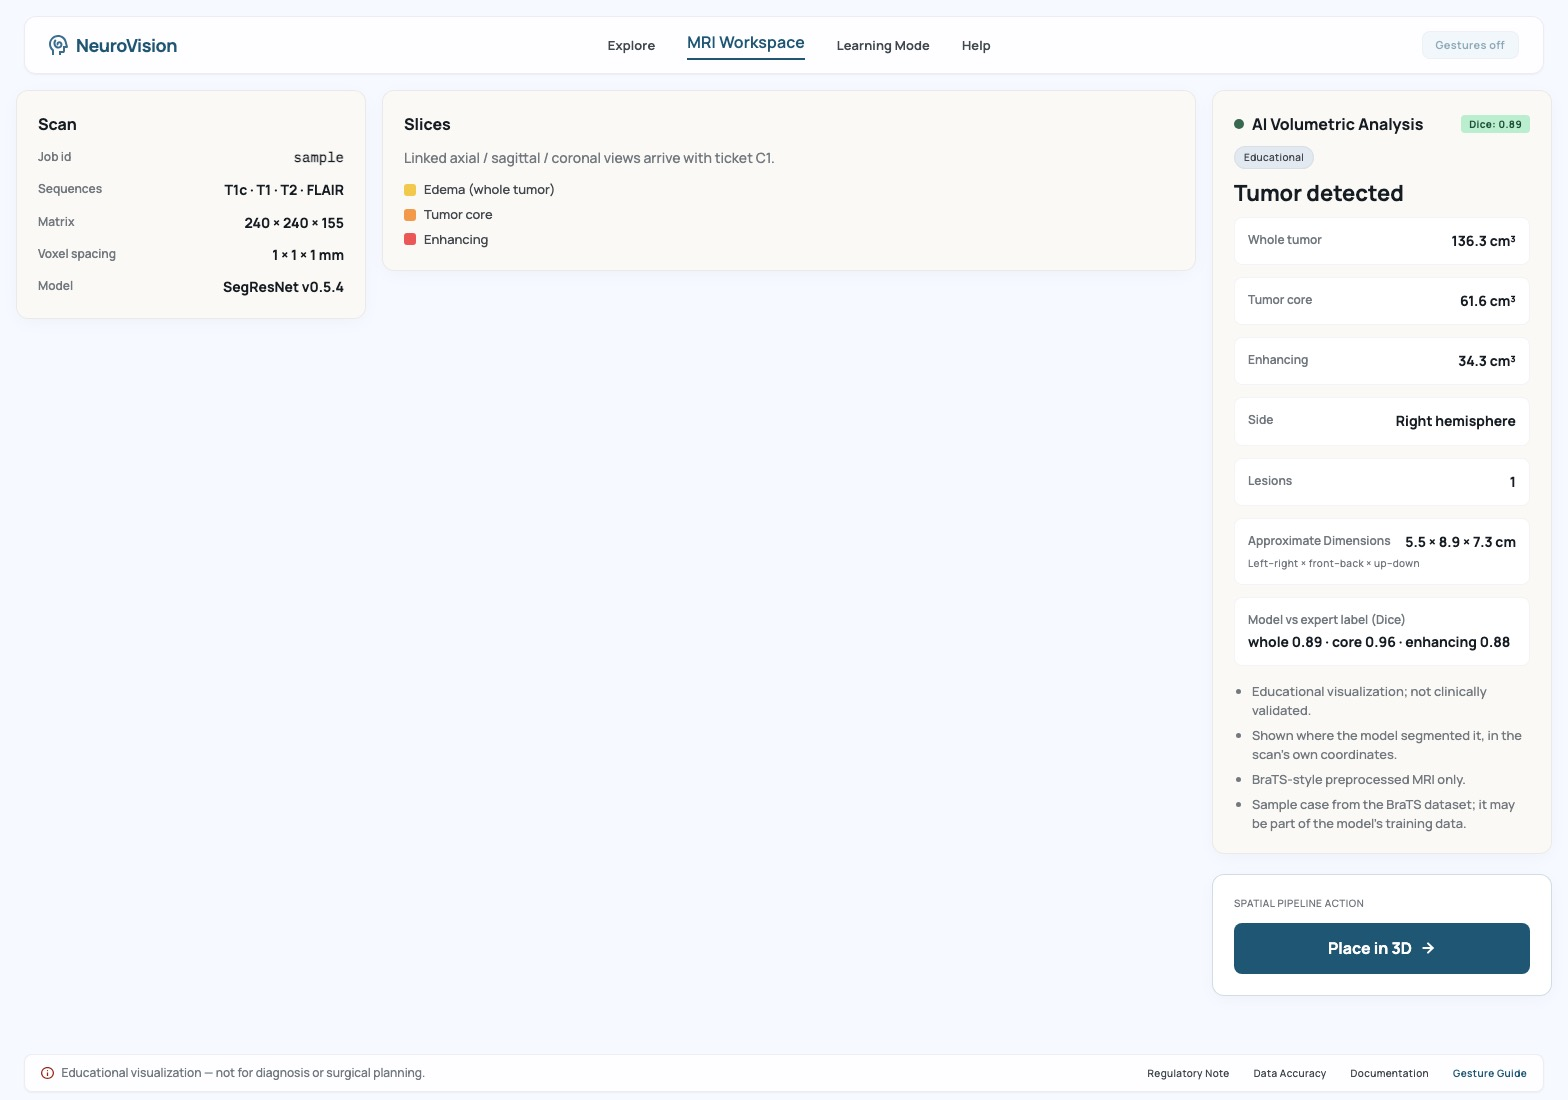
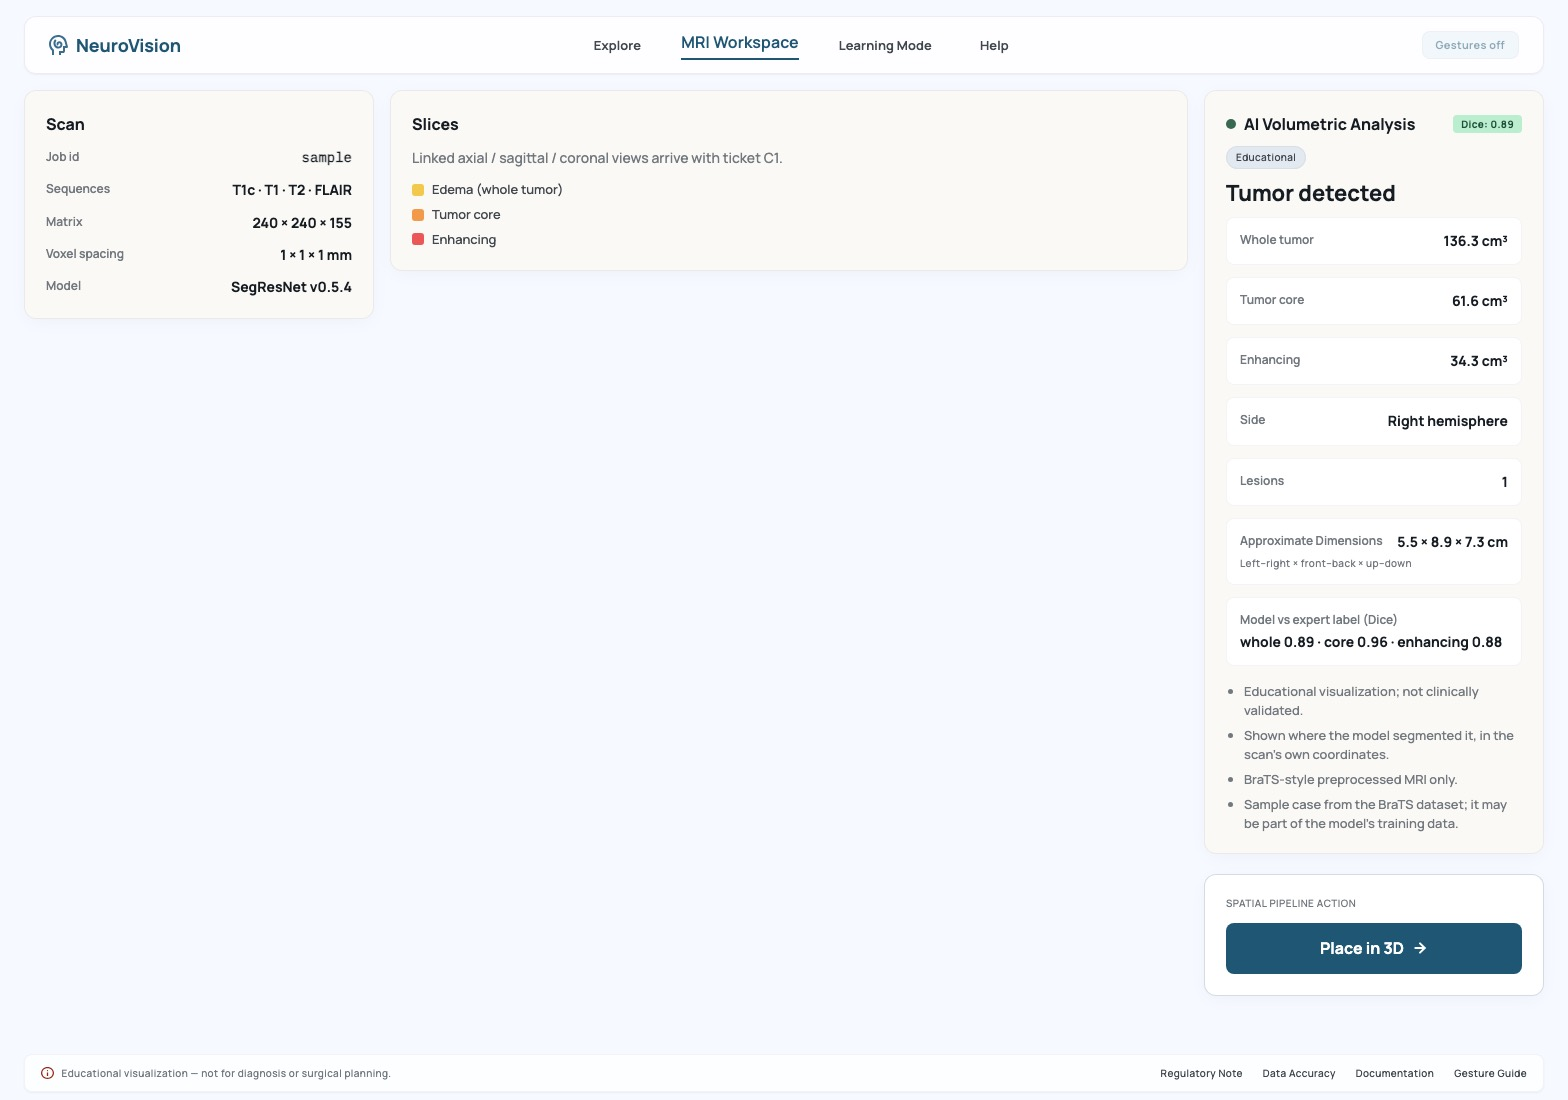
style(results): align the panels with the header on frame 43:767
The grid was 8px wider than the header on each side.

Claude-Session: https://claude.ai/code/session_01K7M6bvo7e35QCzCUTFpjvw

diff --git a/frontend/src/routes/Results.module.css b/frontend/src/routes/Results.module.css
@@ -11,7 +11,7 @@
   display: grid;
   grid-template-columns: 350px 1fr 340px;
   gap: 16px;
-  padding: 16px;
+  padding: 16px 24px;
   align-items: start;
 }
 
